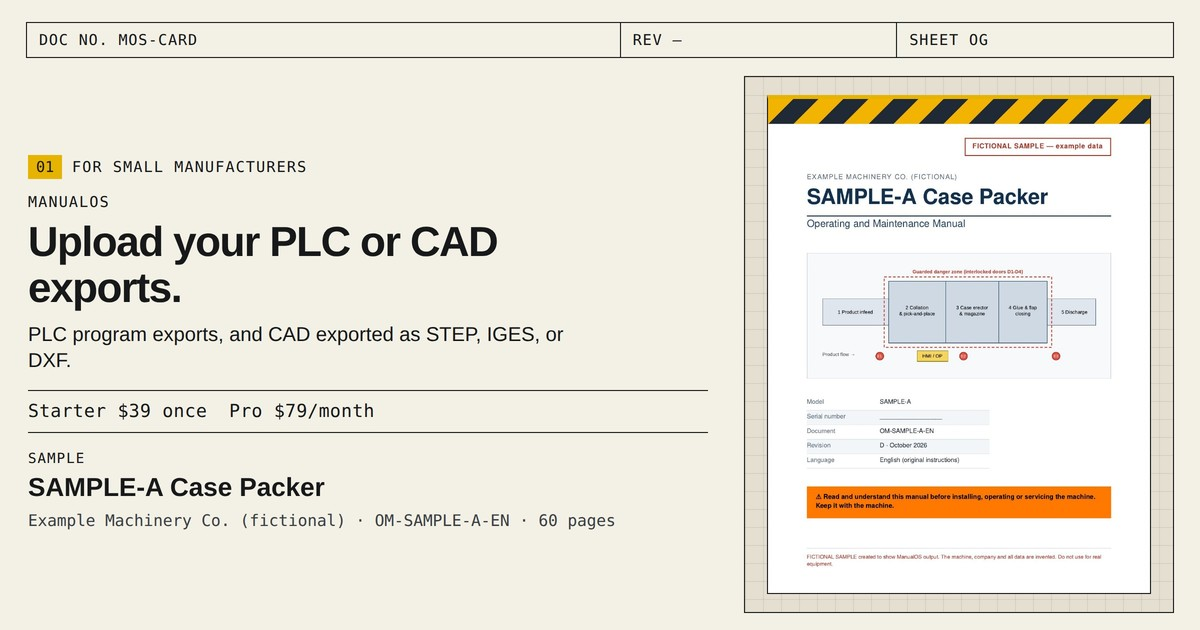
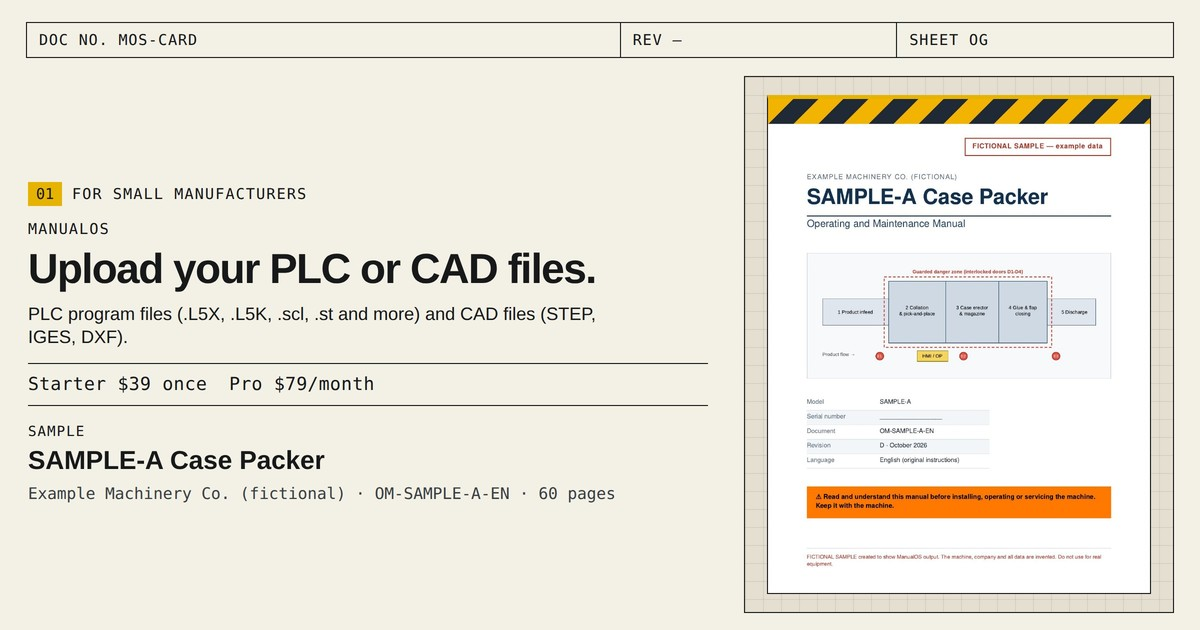
Use the plural headline and tighten the page copy.
The hero, titles, and social card say "Upload your PLC or CAD files." The subline names PLC program files and CAD files. Pricing, checkout, and the upload accept list stay the same.

Changed region(s): [[0.0, 0.2413, 0.4933, 0.8444], [0.3083, 0.754, 0.5242, 0.8444]]

diff --git a/index.html b/index.html
@@ -4,27 +4,27 @@
 <meta charset="UTF-8">
 <meta name="viewport" content="width=device-width, initial-scale=1">
 <!-- Headline lives in #hero-title. This title repeats it. -->
-<title>ManualOS — Upload your PLC or CAD exports</title>
-<meta name="description" content="Upload your PLC or CAD exports. ManualOS writes a plain-English equipment manual from PLC program exports and from CAD exported as STEP, IGES, or DXF. Starter is $39 once for 3 manuals. Pro is $79/month.">
+<title>ManualOS — Upload your PLC or CAD files</title>
+<meta name="description" content="Upload your PLC or CAD files. PLC program files (.L5X, .L5K, .scl, .st and more) and CAD files (STEP, IGES, DXF). Starter is $39 once for 3 manuals. Pro is $79/month.">
 <meta name="robots" content="index, follow">
 <link rel="canonical" href="https://manualos.com/">
 <meta property="og:site_name" content="ManualOS">
 <meta property="og:type" content="website">
 <meta property="og:locale" content="en_US">
 <meta property="og:url" content="https://manualos.com/">
-<meta property="og:title" content="ManualOS — Upload your PLC or CAD exports">
-<meta property="og:description" content="Upload your PLC or CAD exports. ManualOS writes a plain-English equipment manual from PLC program exports and from CAD exported as STEP, IGES, or DXF. Starter is $39 once for 3 manuals. Pro is $79/month.">
+<meta property="og:title" content="ManualOS — Upload your PLC or CAD files">
+<meta property="og:description" content="Upload your PLC or CAD files. PLC program files (.L5X, .L5K, .scl, .st and more) and CAD files (STEP, IGES, DXF). Starter is $39 once for 3 manuals. Pro is $79/month.">
 <meta property="og:image" content="https://manualos.com/assets/og-image.jpg">
 <meta property="og:image:secure_url" content="https://manualos.com/assets/og-image.jpg">
 <meta property="og:image:type" content="image/jpeg">
 <meta property="og:image:width" content="1200">
 <meta property="og:image:height" content="630">
-<meta property="og:image:alt" content="ManualOS. Upload your PLC or CAD exports. PLC program exports, and CAD exported as STEP, IGES, or DXF. Starter is $39 once. Pro is $79 per month. The cover of a 60-page sample for the SAMPLE-A Case Packer, Example Machinery Co. (fictional), document OM-SAMPLE-A-EN, sits beside the title.">
+<meta property="og:image:alt" content="ManualOS. Upload your PLC or CAD files. PLC program files (.L5X, .L5K, .scl, .st and more) and CAD files (STEP, IGES, DXF). Starter is $39 once. Pro is $79 per month. The cover of a 60-page sample for the SAMPLE-A Case Packer, Example Machinery Co. (fictional), document OM-SAMPLE-A-EN, sits beside the title.">
 <meta name="twitter:card" content="summary_large_image">
-<meta name="twitter:title" content="ManualOS — Upload your PLC or CAD exports">
-<meta name="twitter:description" content="Upload your PLC or CAD exports. ManualOS writes a plain-English equipment manual from PLC program exports and from CAD exported as STEP, IGES, or DXF. Starter is $39 once for 3 manuals. Pro is $79/month.">
+<meta name="twitter:title" content="ManualOS — Upload your PLC or CAD files">
+<meta name="twitter:description" content="Upload your PLC or CAD files. PLC program files (.L5X, .L5K, .scl, .st and more) and CAD files (STEP, IGES, DXF). Starter is $39 once for 3 manuals. Pro is $79/month.">
 <meta name="twitter:image" content="https://manualos.com/assets/og-image.jpg">
-<meta name="twitter:image:alt" content="ManualOS. Upload your PLC or CAD exports. PLC program exports, and CAD exported as STEP, IGES, or DXF. Starter is $39 once. Pro is $79 per month. The cover of a 60-page sample for the SAMPLE-A Case Packer, Example Machinery Co. (fictional), document OM-SAMPLE-A-EN, sits beside the title.">
+<meta name="twitter:image:alt" content="ManualOS. Upload your PLC or CAD files. PLC program files (.L5X, .L5K, .scl, .st and more) and CAD files (STEP, IGES, DXF). Starter is $39 once. Pro is $79 per month. The cover of a 60-page sample for the SAMPLE-A Case Packer, Example Machinery Co. (fictional), document OM-SAMPLE-A-EN, sits beside the title.">
 <link rel="icon" href="/favicon.ico" sizes="32x32">
 <meta name="theme-color" content="#f3f0e6">
 <link rel="preload" href="/assets/fonts/ibm-plex-sans-600.woff2" as="font" type="font/woff2" crossorigin>
@@ -66,7 +66,7 @@ a{color:var(--ink)}
 .btn:disabled,.btn-price:disabled{background:#3e444b;border-color:#3e444b;color:#f3f0e6;cursor:wait}
 .hero-sheet{margin:.75rem;border:1px solid var(--ink);background:var(--sheet);padding:.85rem .85rem 1rem}
 .titleblock{display:grid;grid-template-columns:1.5fr .7fr .7fr;border:1px solid var(--ink);font-family:"IBM Plex Mono",ui-monospace,monospace;font-size:.68rem;letter-spacing:.04em;text-transform:uppercase;margin:0 0 .9rem;background:var(--paper)}
-.titleblock span{padding:.32rem .45rem;border-left:1px solid var(--ink);min-width:0}
+.titleblock span{padding:.32rem .45rem;border-left:1px solid var(--ink);min-width:0;overflow-wrap:anywhere}
 .titleblock span:first-child{border-left:0}
 .hero-grid{display:grid;gap:.85rem;grid-template-areas:"kicker" "title" "fan" "rest"}
 .hero-grid>.kicker{grid-area:kicker}
@@ -182,7 +182,7 @@ figcaption{padding:.6rem .7rem .75rem;font-size:.92rem;border-top:1px solid var(
       "name": "ManualOS",
       "url": "https://manualos.com/",
       "email": "hello@manualos.com",
-      "description": "Upload your PLC or CAD exports. ManualOS writes a plain-English equipment manual from PLC program exports and from CAD exported as STEP, IGES, or DXF.",
+      "description": "Upload your PLC or CAD files. PLC program files (.L5X, .L5K, .scl, .st and more) and CAD files (STEP, IGES, DXF).",
       "logo": {
         "@type": "ImageObject",
         "url": "https://manualos.com/assets/logo.png",
@@ -197,7 +197,7 @@ figcaption{padding:.6rem .7rem .75rem;font-size:.92rem;border-top:1px solid var(
       "operatingSystem": "Web",
       "url": "https://manualos.com/",
       "image": "https://manualos.com/assets/og-image.jpg",
-      "description": "Upload your PLC or CAD exports. ManualOS writes a plain-English equipment manual from PLC program exports and from CAD exported as STEP, IGES, or DXF.",
+      "description": "Upload your PLC or CAD files. PLC program files (.L5X, .L5K, .scl, .st and more) and CAD files (STEP, IGES, DXF).",
       "publisher": { "@id": "https://manualos.com/#organization" },
       "offers": [
         {
@@ -245,7 +245,7 @@ figcaption{padding:.6rem .7rem .75rem;font-size:.92rem;border-top:1px solid var(
           "name": "What counts as one manual?",
           "acceptedAnswer": {
             "@type": "Answer",
-            "text": "Each time ManualOS generates a manual from a PLC file, that counts as one manual. Starter is a one-time $39 purchase and includes 3 manuals. Pro is $79 per month and includes unlimited manuals while the subscription is active."
+            "text": "Each time ManualOS generates a manual from an uploaded file, that counts as one manual. Starter is a one-time $39 purchase and includes 3 manuals. Pro is $79 per month and includes unlimited manuals while the subscription is active."
           }
         },
         {
@@ -294,14 +294,14 @@ figcaption{padding:.6rem .7rem .75rem;font-size:.92rem;border-top:1px solid var(
     <div class="hero-grid">
       <p class="kicker"><span class="idx">01</span> For small manufacturers</p>
       <!-- Headline. This h1 is the wording to change. -->
-      <h1 id="hero-title">Upload your PLC or CAD exports.</h1>
+      <h1 id="hero-title">Upload your PLC or CAD files.</h1>
       <div class="hero-rest">
-        <p class="lede">PLC program exports, and CAD exported as STEP, IGES, or DXF. ManualOS writes a plain-English equipment manual from them. Built for maintenance techs and integrators, too. Starter is $39 once for 3 manuals. Pro is $79 a month for unlimited manuals.</p>
+        <p class="lede">PLC program files (.L5X, .L5K, .scl, .st and more) and CAD files (STEP, IGES, DXF). ManualOS writes a plain-English equipment manual from them. Built for maintenance techs and integrators, too. Starter is $39 once for 3 manuals. Pro is $79 a month for unlimited manuals.</p>
         <div class="hero-cta">
           <a class="btn btn-primary" href="#pricing">See pricing</a>
           <a class="btn btn-ghost" href="#sample">View a sample manual</a>
         </div>
-        <p class="hero-note">A .zip of those exports is fine. <a href="/upload.html">Already purchased? Upload a file</a>.</p>
+        <p class="hero-note">A .zip of those files is fine. <a href="/upload.html">Already purchased? Upload a file</a>.</p>
       </div>
       <figure class="fan">
         <div class="fan-stage" aria-hidden="true">
@@ -435,12 +435,12 @@ figcaption{padding:.6rem .7rem .75rem;font-size:.92rem;border-top:1px solid var(
   <section class="section" id="how" aria-labelledby="how-title">
     <p class="kicker"><span class="idx">03</span> How it works</p>
     <h2 id="how-title">From file to manual in three steps</h2>
-    <p class="section-intro">No documentation department required. You bring the program. ManualOS writes the explanation.</p>
+    <p class="section-intro">You upload the file. ManualOS writes the manual.</p>
     <ol class="steps">
       <li>
         <span class="step-num">01</span>
         <h3>Upload the file</h3>
-        <p>After checkout, upload a .L5X, .L5K, .scl, .st, .exp, PLCopen .xml, or .TcPOU, a .csv or .xlsx tag list, or a .step, .iges, or ASCII .dxf model. A .zip of those is fine.</p>
+        <p>After checkout, upload a file from the supported list, or a .zip of those files.</p>
       </li>
       <li>
         <span class="step-num">02</span>
@@ -466,7 +466,7 @@ figcaption{padding:.6rem .7rem .75rem;font-size:.92rem;border-top:1px solid var(
   <section class="section" id="sample" aria-labelledby="sample-title">
     <p class="kicker"><span class="idx">04</span> Sample manual</p>
     <h2 id="sample-title">Sample manual</h2>
-    <p class="section-intro">A 60-page operating and maintenance manual for the SAMPLE-A Case Packer, Example Machinery Co. (fictional), document OM-SAMPLE-A-EN. A fictional example showing the ManualOS manual format. The machine and data are invented.</p>
+    <p class="section-intro">A 60-page operating and maintenance manual for the SAMPLE-A Case Packer, Example Machinery Co. (fictional), document OM-SAMPLE-A-EN. The machine and data are invented.</p>
     <ul class="sample-sections">
       <li>Safety, including residual risk</li>
       <li>Machine description and theory of operation</li>
@@ -542,15 +542,15 @@ figcaption{padding:.6rem .7rem .75rem;font-size:.92rem;border-top:1px solid var(
     <ul class="who-list">
       <li>
         <h3>Small manufacturers</h3>
-        <p>You have a machine and a PLC program, and no one on staff whose job is writing manuals.</p>
+        <p>You have a machine and the files for it, and no one on staff whose job is writing manuals.</p>
       </li>
       <li>
         <h3>Maintenance techs</h3>
-        <p>You need the rung explained in plain language while you are at the panel.</p>
+        <p>You need the equipment explained in plain language while you are at the machine.</p>
       </li>
       <li>
         <h3>Integrators</h3>
-        <p>You are handing a cell to a customer and need a manual that matches the program you shipped.</p>
+        <p>You are handing a cell to a customer and need a manual that matches the files you shipped.</p>
       </li>
     </ul>
     <div class="privacy">
@@ -599,9 +599,9 @@ figcaption{padding:.6rem .7rem .75rem;font-size:.92rem;border-top:1px solid var(
             <td>—</td>
           </tr>
           <tr>
-            <th scope="row">PLC exports</th>
-            <td>Same PLC exports as Pro</td>
-            <td>Same PLC exports as Starter</td>
+            <th scope="row">Files</th>
+            <td>The files listed above</td>
+            <td>The files listed above</td>
             <td>—</td>
           </tr>
           <tr>
@@ -624,7 +624,7 @@ figcaption{padding:.6rem .7rem .75rem;font-size:.92rem;border-top:1px solid var(
           </tr>
           <tr>
             <th scope="row"><span class="sr-only">Purchase</span></th>
-            <td><button type="button" class="btn btn-outline btn-price" data-checkout="starter">Get started</button></td>
+            <td><button type="button" class="btn btn-outline btn-price" data-checkout="starter">Buy Starter</button></td>
             <td><button type="button" class="btn btn-primary btn-price" data-checkout="pro">Start Pro</button></td>
             <td><a class="btn btn-outline btn-price" href="mailto:hello@manualos.com?subject=Enterprise%20pricing">Contact us</a></td>
           </tr>
@@ -650,7 +650,7 @@ figcaption{padding:.6rem .7rem .75rem;font-size:.92rem;border-top:1px solid var(
     </div>
     <div class="faq-item">
       <h3>What counts as one manual?</h3>
-      <p>Each time ManualOS generates a manual from a PLC file, that counts as one manual. Starter is a one-time $39 purchase and includes 3 manuals. Pro is $79 per month and includes unlimited manuals while the subscription is active.</p>
+      <p>Each time ManualOS generates a manual from an uploaded file, that counts as one manual. Starter is a one-time $39 purchase and includes 3 manuals. Pro is $79 per month and includes unlimited manuals while the subscription is active.</p>
     </div>
     <div class="faq-item">
       <h3>Who can see my PLC program?</h3>
@@ -665,7 +665,7 @@ figcaption{padding:.6rem .7rem .75rem;font-size:.92rem;border-top:1px solid var(
 <footer class="site-footer">
   <div class="footer-inner">
     <p class="footer-brand">ManualOS</p>
-    <p>Plain-English equipment manuals. Upload your PLC or CAD exports.</p>
+    <p>Plain-English equipment manuals. Upload your PLC or CAD files.</p>
     <nav class="footer-nav" aria-label="Footer">
       <a href="#how">How it works</a>
       <a href="#sample">Sample</a>

diff --git a/404.html b/404.html
@@ -22,9 +22,11 @@ body{margin:0;min-height:100vh;display:flex;flex-direction:column;font-family:"I
 header,footer{padding:.35rem .85rem}
 header{border-bottom:1px solid var(--ink)}
 .logo{display:inline-flex;align-items:center;gap:.55rem;min-height:2.75rem;color:var(--ink);text-decoration:none;font-weight:600;font-size:1.05rem;letter-spacing:-.02em}
-.logo-mark{width:1.7rem;height:1.7rem;background:var(--ink);color:var(--paper);display:grid;place-items:center;border-bottom:3px solid var(--yellow)}
+.logo-mark{width:1.7rem;height:1.7rem;background:var(--ink);color:var(--paper);display:grid;place-items:center;font-size:.95rem;border-bottom:3px solid var(--yellow)}
 main{flex:1;max-width:40rem;margin:0 auto;padding:2.2rem .85rem;width:100%}
-.kicker{font-family:"IBM Plex Mono",ui-monospace,monospace;font-size:.72rem;letter-spacing:.08em;text-transform:uppercase;margin:0 0 .5rem}
+.titleblock{display:grid;grid-template-columns:1.5fr .7fr .7fr;border:1px solid var(--ink);font-family:"IBM Plex Mono",ui-monospace,monospace;font-size:.68rem;letter-spacing:.04em;text-transform:uppercase;margin:0 0 1rem}
+.titleblock span{padding:.32rem .45rem;border-left:1px solid var(--ink);min-width:0;overflow-wrap:anywhere}
+.titleblock span:first-child{border-left:0}
 h1{font-size:clamp(1.8rem,5vw,2.5rem);font-weight:600;letter-spacing:-.02em;line-height:1.15;margin:0 0 .7rem}
 .actions{display:flex;flex-wrap:wrap;gap:.6rem;margin-top:1.2rem}
 a.btn{display:inline-flex;align-items:center;justify-content:center;min-height:2.75rem;padding:.55rem .9rem;font-weight:600;text-decoration:none;border:1px solid var(--ink);border-radius:0}
@@ -33,7 +35,7 @@ a.btn{display:inline-flex;align-items:center;justify-content:center;min-height:2
 .btn-outline{background:var(--sheet);color:var(--ink)}
 .btn-outline:hover{background:var(--yellow);color:var(--ink)}
 footer{border-top:1px solid var(--ink);color:#3a3f44}
-footer a{color:var(--ink)}
+footer a{color:var(--ink);display:inline-flex;align-items:center;min-height:2.75rem}
 </style>
 </head>
 <body>
@@ -42,9 +44,13 @@ footer a{color:var(--ink)}
   <a class="logo" href="/"><span class="logo-mark" aria-hidden="true">M</span>ManualOS</a>
 </header>
 <main id="main" tabindex="-1">
-  <p class="kicker">Sheet — 404</p>
+  <div class="titleblock">
+    <span>Doc no. 404</span>
+    <span>Rev —</span>
+    <span>Sheet —</span>
+  </div>
   <h1>That page is not here</h1>
-  <p>The address does not match a ManualOS page. The site home page has pricing, a sample manual, and how checkout works.</p>
+  <p>The address does not match a ManualOS page. The home page has pricing, a sample manual, and checkout.</p>
   <div class="actions">
     <a class="btn btn-primary" href="/">Back to home</a>
     <a class="btn btn-outline" href="/#pricing">View pricing</a>

diff --git a/upload.html b/upload.html
@@ -4,9 +4,9 @@
 <head>
   <meta charset="UTF-8">
   <meta name="viewport" content="width=device-width, initial-scale=1">
-  <title>Upload a program or CAD model — ManualOS</title>
+  <title>Upload your PLC or CAD files — ManualOS</title>
   <link rel="icon" href="/favicon.ico" sizes="32x32">
-  <meta name="description" content="Upload a PLC program, a CAD model, or both after checkout. ManualOS checks your plan, then generates a plain-English PDF.">
+  <meta name="description" content="Upload your PLC or CAD files after checkout. ManualOS checks your plan, then writes a plain-English PDF.">
   <meta name="robots" content="noindex">
   <link rel="canonical" href="https://manualos.com/upload.html">
   <meta name="theme-color" content="#f3f0e6">
@@ -42,7 +42,9 @@
     .source-options{display:grid;gap:.45rem}
     .choice{display:flex;align-items:flex-start;gap:.6rem;background:var(--sheet);border:1px solid var(--ink);border-radius:0;padding:.75rem .8rem;min-height:2.75rem;cursor:pointer;font-weight:600}
     .choice input{width:1.15rem;height:1.15rem;margin-top:.15rem;accent-color:var(--ink);flex:0 0 auto}
+    .choice:hover{background:#fff}
     .choice.is-selected{background:var(--sheet);box-shadow:inset 4px 0 0 var(--yellow)}
+    .choice:focus-within{outline:2px solid var(--ink);outline-offset:2px}
     .hint{color:var(--muted);margin-top:.65rem}
     .fields{display:grid;gap:.7rem}
     .field{display:block;font-weight:600}
@@ -84,7 +86,7 @@
     .upload-error{margin-top:1rem;padding:.75rem .85rem;border-radius:0;background:var(--sheet);border:1px solid var(--ink);border-left:4px solid #6b2a14;color:var(--ink);font-size:.95rem;font-weight:600}
     .upload-error ul{margin:0;padding-left:1.1rem}
     .upload-error li+li{margin-top:.35rem}
-    .upload-error a{color:var(--ink);font-weight:600}
+    .upload-error a{color:var(--ink);font-weight:600;text-decoration:underline;text-underline-offset:.15em}
     .mode-note{margin:1rem 0;padding:.75rem .85rem;border-radius:0;background:var(--sheet);border:1px solid var(--ink);font-weight:600}
     .success-section{text-align:left;padding:1.25rem 0 0}
     .success-icon{margin-bottom:.6rem}
@@ -306,7 +308,7 @@
   var DROP_HELP = {
     plc: '.L5X, .L5K, .scl, .st, .exp, PLCopen .xml, .TcPOU, .csv, .xlsx, or a zip of those.',
     cad: 'STEP, IGES, DXF, or a zip of those.',
-    both: 'PLC exports and CAD models together, or a zip of both.'
+    both: 'PLC program files and CAD files together, or a zip of both.'
   };
 
   var apiBase = resolveApiBase();
